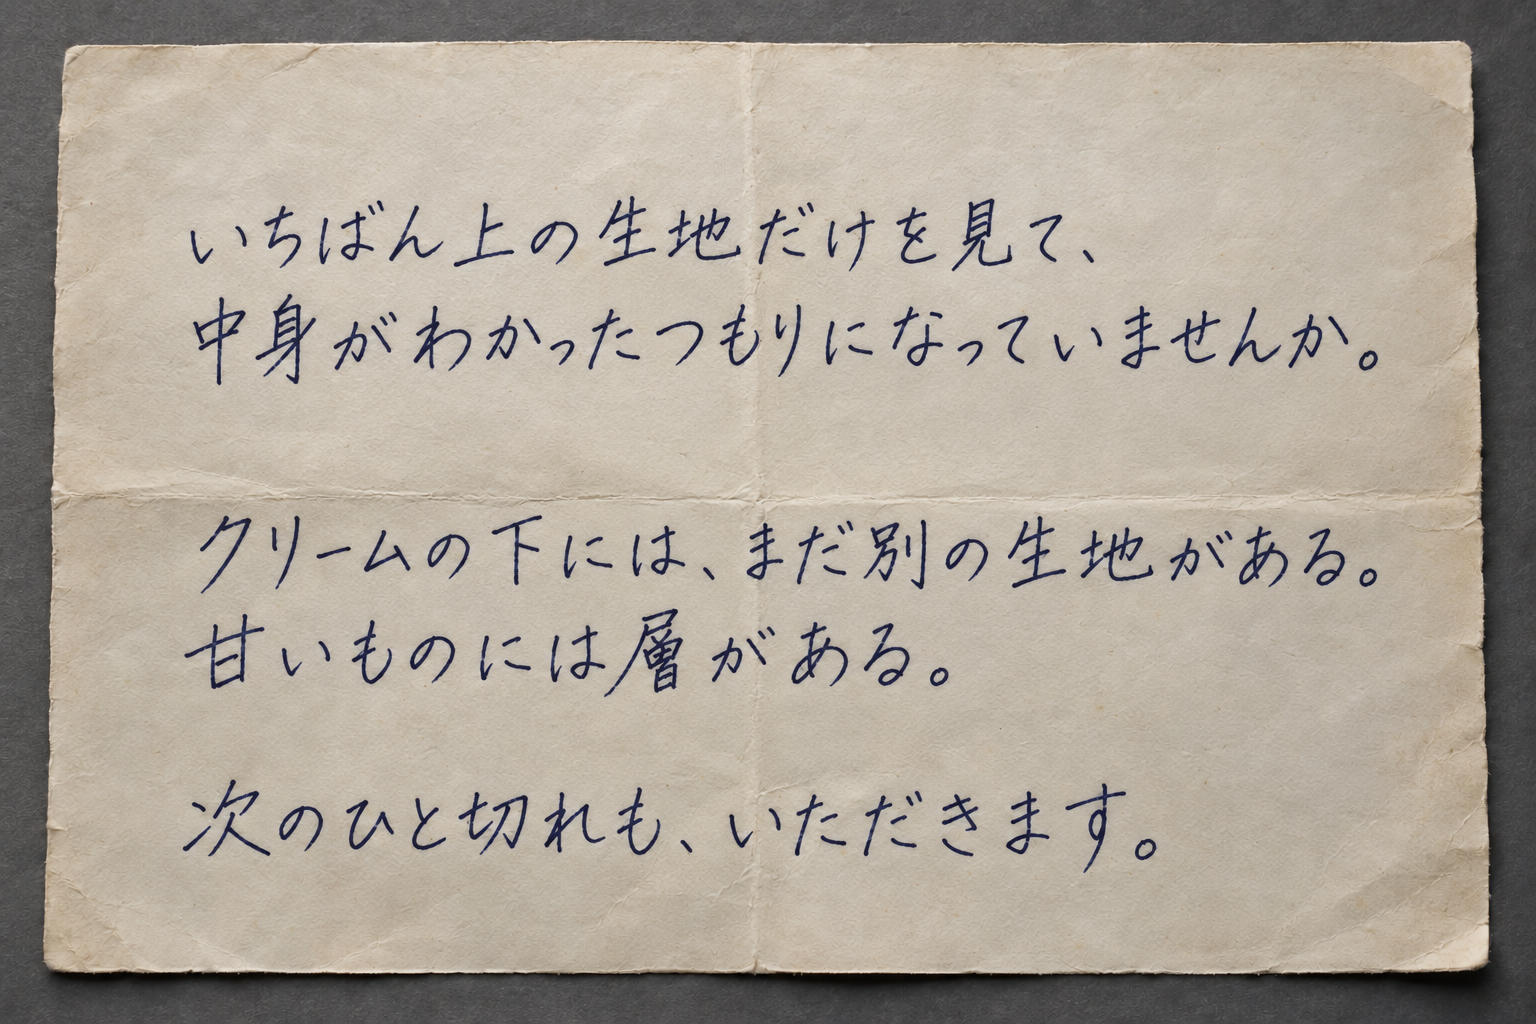
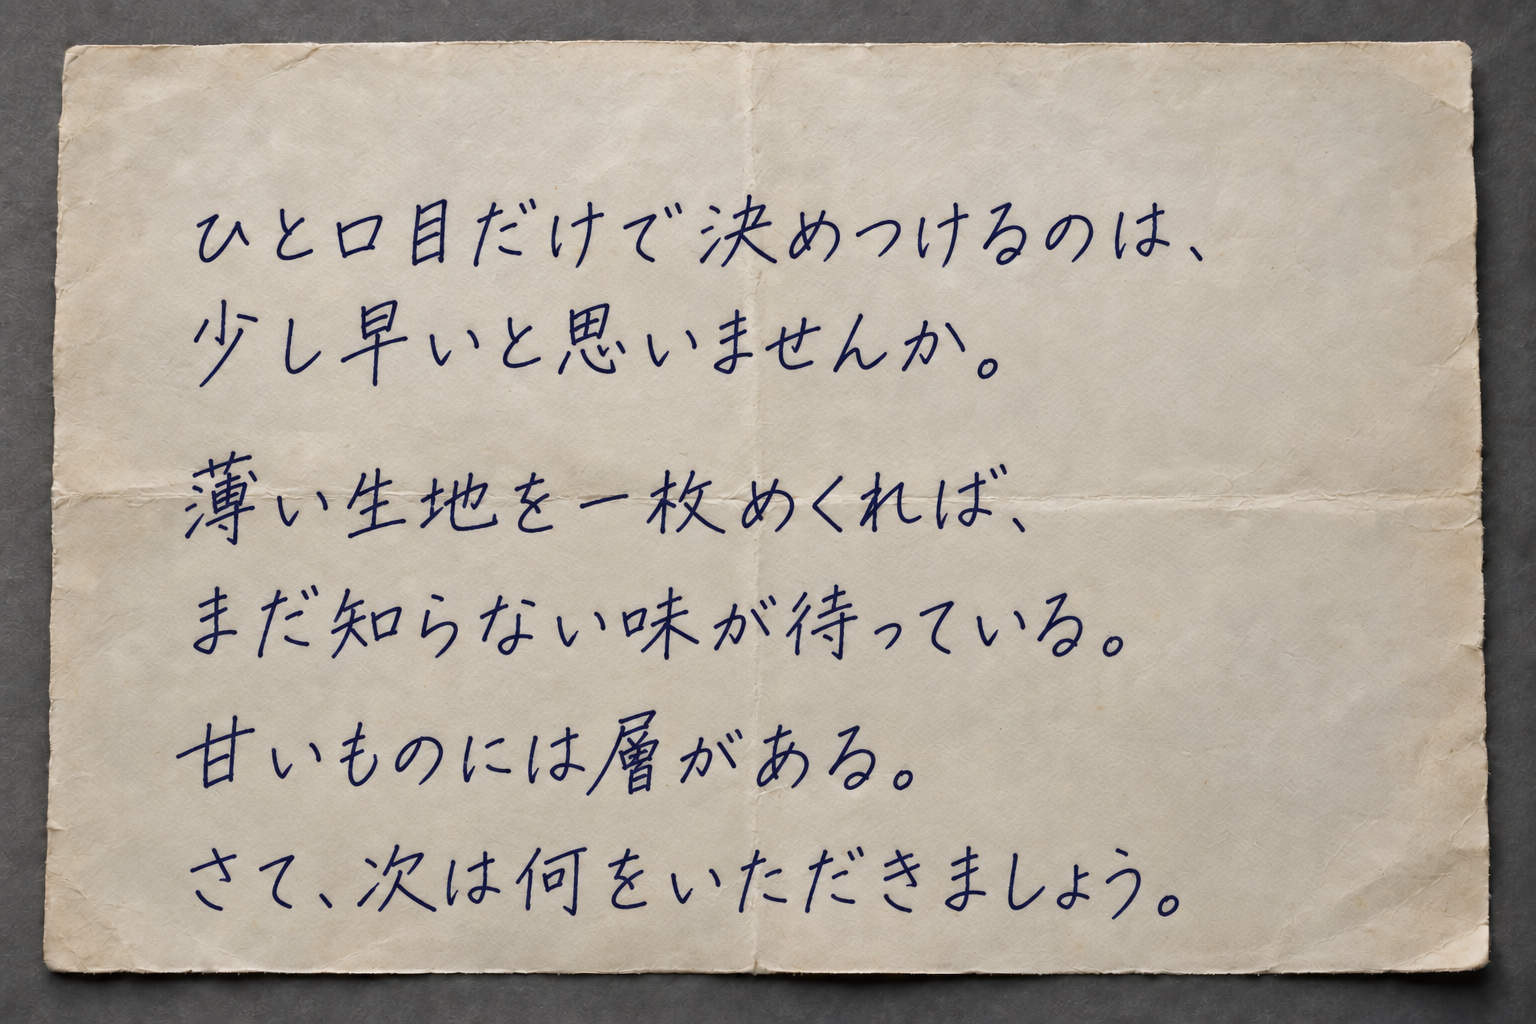
Revise CASE16 handwritten warning letter text

diff --git a/police/db/cases/case16/message/index.html b/police/db/cases/case16/message/index.html
@@ -7,4 +7,4 @@
     <form class="head-search" action="../../../../search/"><input name="q" placeholder="サイト内検索" aria-label="サイト内検索"><button>検索</button></form>
   </div>
   <nav class="global-nav"><div class="wrap"><a href="../../../../about/">本部について</a><a href="../../../../activity/">活動・統計</a><a href="../../../../db/">事件・怪盗DB</a><a href="../../../../documents/">公開資料室</a><a href="../../../../news/">広報・お知らせ</a></div></nav>
-</header><main><nav class="breadcrumb" aria-label="パンくず"><a href="../../../../">トップ</a><span class="sep">›</span><a href="../../../../db/cases/case16/">CASE16</a><span class="sep">›</span><span>予告状</span></nav><section class="page-title wrap"><p class="eyebrow">RELATED DOCUMENT</p><h1>CASE16 予告状</h1></section><section class="section"><div class="wrap narrow"><div class="warning-evidence"><img class="warning-letter-image" src="../../../../assets/images/case16-warning-letter.png?v=long-message-1" width="1536" height="1024" alt="いちばん上の生地だけを見て、中身がわかったつもりになっていませんか。クリームの下には、まだ別の生地がある。甘いものには層がある。次のひと切れも、いただきます。"></div></div></section></main><footer class="footer"><div class="wrap footer-grid"><div><strong>怪盗関連事件特別捜査本部</strong><p>本サイトは被害者・捜査協力者等を対象とした準備公開版です。</p></div><div><a href="../../../../news/contact/">情報提供のお願い</a><br><a href="../../../../documents/rules/">情報の取扱い</a></div></div><div class="copyright">© 怪盗関連事件特別捜査本部（架空）</div></footer><div id="secret-toast" class="secret-toast" role="status"></div><script src="../../../../assets/js/site.js"></script></body></html>
+</header><main><nav class="breadcrumb" aria-label="パンくず"><a href="../../../../">トップ</a><span class="sep">›</span><a href="../../../../db/cases/case16/">CASE16</a><span class="sep">›</span><span>予告状</span></nav><section class="page-title wrap"><p class="eyebrow">RELATED DOCUMENT</p><h1>CASE16 予告状</h1></section><section class="section"><div class="wrap narrow"><div class="warning-evidence"><img class="warning-letter-image" src="../../../../assets/images/case16-warning-letter.png?v=revised-message-1" width="1536" height="1024" alt="ひと口目だけで決めつけるのは、少し早いと思いませんか。薄い生地を一枚めくれば、まだ知らない味が待っている。甘いものには層がある。さて、次は何をいただきましょう。"></div></div></section></main><footer class="footer"><div class="wrap footer-grid"><div><strong>怪盗関連事件特別捜査本部</strong><p>本サイトは被害者・捜査協力者等を対象とした準備公開版です。</p></div><div><a href="../../../../news/contact/">情報提供のお願い</a><br><a href="../../../../documents/rules/">情報の取扱い</a></div></div><div class="copyright">© 怪盗関連事件特別捜査本部（架空）</div></footer><div id="secret-toast" class="secret-toast" role="status"></div><script src="../../../../assets/js/site.js"></script></body></html>
